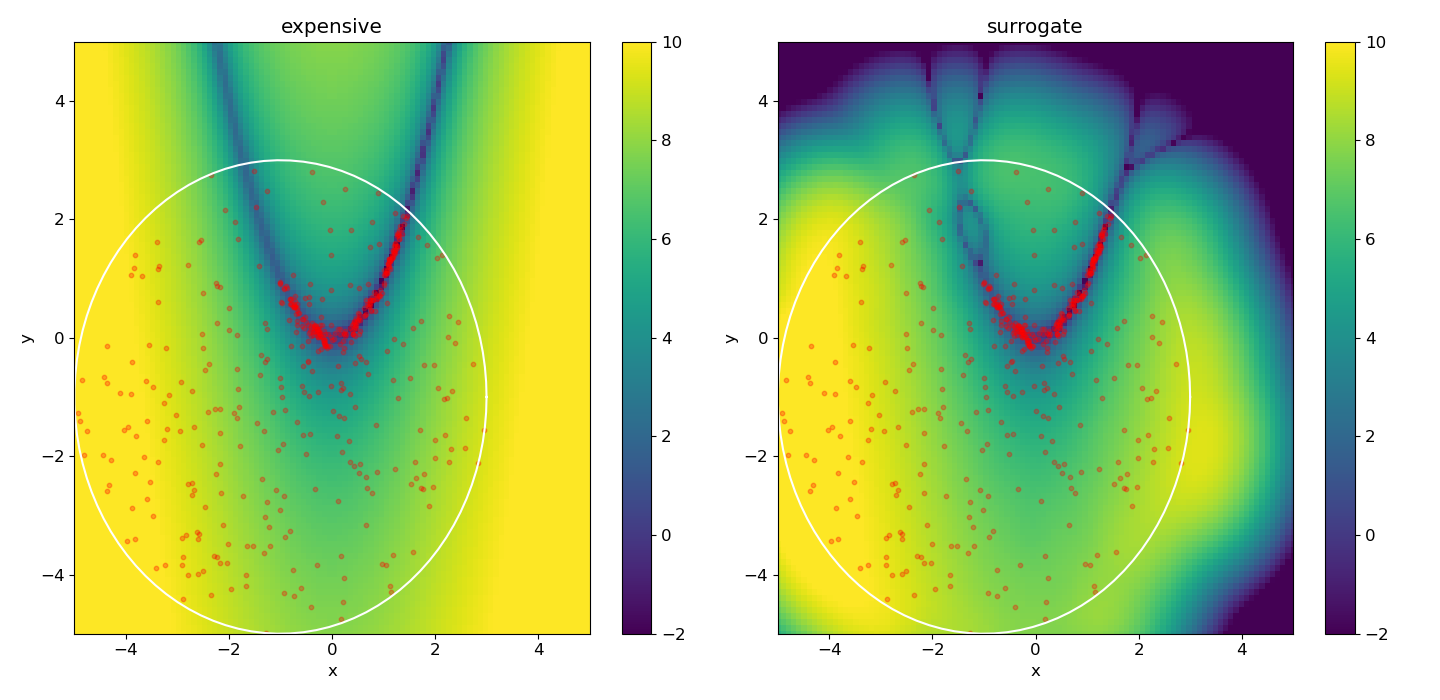
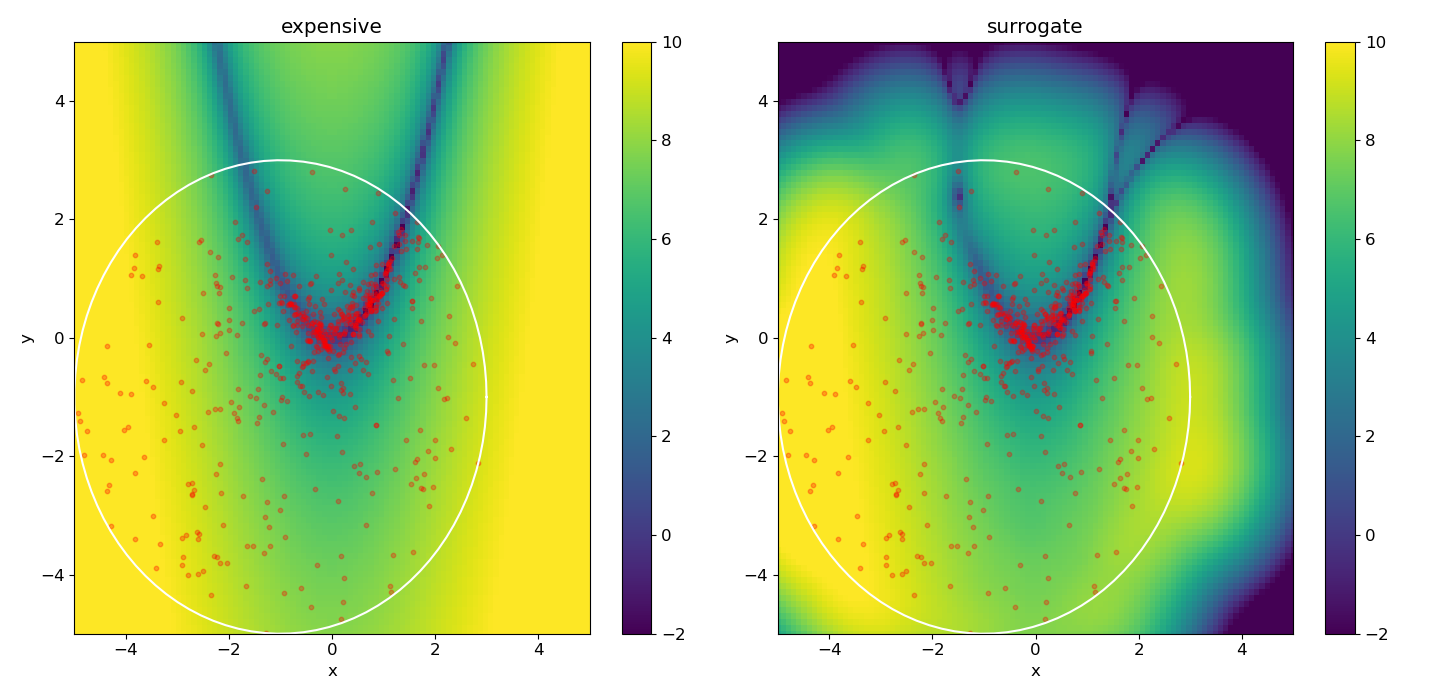
update example_mcmc_surrogate.py: remove the unnecessary correlation plot, check for unique points in the train/test sets

diff --git a/examples/example_mcmc_surrogate.py b/examples/example_mcmc_surrogate.py
@@ -76,7 +76,7 @@ slurm_pool = status['slurm_pool']
 print("Mean acceptance fraction: {0:.3f}".format(np.mean(sampler.acceptance_fraction)))
 
 tau = sampler.get_autocorr_time(quiet=True)
-print("Autocorrelation time (tau) per paramter:", [np.round(t, 2) for t in tau])
+print("Autocorrelation time (tau) per parameter:", [np.round(t, 2) for t in tau])
 
 thin = 1
 # burnin = 0
@@ -90,28 +90,36 @@ samples = sampler.get_chain(discard=burnin, thin=thin)
 samples_flat = sampler.get_chain(discard=burnin, thin=thin, flat=True)
 
 ## fitting a surrogate model and rerunning mcmc
-num_iters_for_training = 500
 kernel = ConstantKernel(1.0, (1e-3, 1e3)) * RBF(1.0, (1e-2, 1e2))
 surrogate = GaussianProcessRegressor(kernel=kernel, n_restarts_optimizer=10, alpha=1e-6)
 
 # assemble training data
 # combine mcmc points and some "random" points for regularization in far away regions
-num_iters_for_training_mcmc = int(0.5 * num_iters_for_training)
 X_train, y_train = [], []
+num_train_points_from_mcmc = 400
+unique_points_set = set()  # use to avoid duplicate points
 for point, value in zip(slurm_pool.points_history, slurm_pool.values_history):
-    if tuple(point) in sampler.mcmc_points_set:
+    point_accepted = tuple(point) not in unique_points_set
+    if use_constraints:
+        if constraint_fun(point) > 0: point_accepted = False
+    if point_accepted:
+        unique_points_set.add(tuple(point))
         X_train += [point]
         y_train += [value]
-    if len(y_train) == num_iters_for_training_mcmc:
+    if len(y_train) >= num_train_points_from_mcmc:
         break
 
+num_train_points_regularization = 200
 while True:
     point = np.array([param_bounds[i][0] + (param_bounds[i][1] - param_bounds[i][0]) * np.random.rand()
                       for i in range(num_params)])
-    if constraint_fun(point) < 0:
+    point_accepted = True
+    if use_constraints:
+        if constraint_fun(point) > 0: point_accepted = False
+    if point_accepted:
         X_train += [point]
         y_train += [np.array([log_prob_rosen_with_constraint(point)])]
-        if len(y_train) == num_iters_for_training:
+        if len(y_train) >= num_train_points_from_mcmc + num_train_points_regularization:
             break
 
 X_train, y_train = np.array(X_train), np.array(y_train)
@@ -129,11 +137,16 @@ log_prob_fun_surrogate = lambda x: surrogate.predict(x.reshape(1, -1))[0]  # for
 num_points_test = 100
 X_test, y_test = [], []
 for point, value in zip(slurm_pool.points_history, slurm_pool.values_history):
-    if tuple(point) in sampler.mcmc_points_set and point not in X_train:
+    point_accepted = tuple(point) not in unique_points_set
+    if use_constraints:
+        if constraint_fun(point) > 0: point_accepted = False
+    if point_accepted:
+        unique_points_set.add(tuple(point))
         X_test += [point]
         y_test += [value]
     if len(y_test) == num_points_test:
         break
+
 X_test, y_test = np.array(X_test), np.array(y_test)
 y_test_surrogate = np.array([log_prob_fun_surrogate(point) for point in X_test])
 dy_test = y_test_surrogate - y_test[:, 0]
@@ -156,7 +169,7 @@ else:
 
 print('running mcmc with surrogate.')
 status_2 = slurm_mcmc(log_prob_fun=log_prob_fun, init_points=init_points, num_iters=num_iters,
-                       cluster='local-map', verbosity=0)
+                      cluster='local-map', verbosity=0)
 sampler_2 = status_2['sampler']
 print("Mean acceptance fraction: {0:.3f}".format(np.mean(sampler_2.acceptance_fraction)))
 
@@ -250,21 +263,22 @@ importance_mean = np.mean(importance_weights_list)
 importance_std = np.std(importance_weights_list)
 print('importance_weights mean', importance_mean, ', std=', importance_std)
 
-plt.figure(figsize=(5, 8))
-plt.subplot(2, 1, 1)
-hist_range = (importance_mean - 3 * importance_std, importance_mean + 3 * importance_std)
-plt.hist(importance_weights_list, color='b', bins=20, range=hist_range)
+plt.figure()
+hist_range = (importance_mean - 2 * importance_std, importance_mean + 2 * importance_std)
+plt.hist(importance_weights_list, color='b', bins=31, range=hist_range)
 plt.title('mean=' + '{:.3f}'.format(importance_mean) + ', std=' + '{:.3f}'.format(importance_std))
-plt.gca().set_xticklabels([])
-plt.gca().set_yticklabels([])
-
-plt.subplot(2, 1, 2)
-plt.scatter(importance_weights_list, log_prob_expensive_list, color='b', alpha=0.3)
-plt.xlabel('importance weights')
-plt.ylabel('log probability (expensive)')
+plt.xlabel('importance weights = $p_{\mathrm{expensive}} / p_{\mathrm{surrogate}}$')
 plt.xlim([hist_range[0], hist_range[1]])
-
+plt.ylabel('frequency')
 plt.tight_layout()
 
 if save_plots:
     plt.savefig('example_mcmc_surrogate_importance_weights')
+
+plt.figure()
+plt.hist(log_prob_expensive_list, bins=31, label='expensive', color='k', alpha=0.5)
+plt.hist(log_prob_surrogate_list, bins=31, label='surrogate', color='b', alpha=0.5)
+plt.xlabel('log-probabillity')
+plt.ylabel('frequency')
+plt.legend()
+plt.tight_layout()

diff --git a/examples/docs/mcmc_surrogate.md b/examples/docs/mcmc_surrogate.md
@@ -16,7 +16,7 @@ However, even if the accuracy is satisfactory on the test set, it might not be a
 
 Therefore, using this package could still be useful as a tool to generate training data close to the post-MCMC subspace.
 Meaning, a hybrid approach would involve the following steps: 
-1. Start the parallel MCMC with the expensive queries.
+1. Start the parallel MCMC with the exact (expensive) queries.
 2. Generate enough relevant data.
 3. Train a fast surrogate model (and test its accuracy).
 4. Restart MCMC with the fast surrogate (parallelization no longer needed).
@@ -31,14 +31,14 @@ with zero probability assigned outside of the constraint circle.
 This will serve as the "expensive" query, to demonstrate the procedure above.
 
 We pick $N_c=10$ chains times $L_c=2000$ iterations per chain 
-(is not enough to be converged but that is not the point), and run the MCMC.
+(is not enough to be converged but that is not the point of this example), and run the MCMC.
 
 Then, we train a (gaussian process) surrogate model for the log-probability values of the training set, 
-made from 250 samples from the previous MCMC, 
-and additional 250 random points (in the constrained domain) as regularization.
+made from 400 unique samples from the previous MCMC, 
+and additional 200 random points (in the constrained domain) as regularization.
 
-For visualization, we show the expensive and surrogate log-probability functions, 
-with the training points shown in red:
+For visualization, we show the expensive and surrogate log-probability functions (log absolute of the values), 
+with the training points shown in red points:
 
 <img src="pics/example_mcmc_surrogate_2d_visualization.png" alt="example_mcmc_surrogate_2d_visualization" width="1000" height="auto">
 
@@ -49,15 +49,14 @@ A corner plot of the MCMC parameter distributions for the expensive vs surrogate
 
 <img src="pics/example_mcmc_surrogate_parameters_distribution.png" alt="example_mcmc_surrogate_parameters_distribution" width="700" height="auto">
 
-We can see that the distributions are quite similar in this toy example.
+We can see that the distributions are similar in this toy example, but not perfectly so.
 
 For validation, pick 1000 samples from the surrogate-based MCMC samples set, and evaluate the expensive queries on those points.
-Compare the ratio of probabilities between the expensive and surrogate cases (also known as importance weights) (top figure), 
-and the correlation between the ratio and the log-probability itself (bottom figure):
+Compare the ratio of probabilities between the expensive and surrogate cases, also known as importance weights:
 
 <img src="pics/example_mcmc_surrogate_importance_weights.png" alt="example_mcmc_surrogate_importance_weights" width="500" height="auto">
 
-We can see that the ratio is close to 1 to within 1%, validating the use of the surrogate model in this example. 
+We can see that the ratio is close to 1 to within ~1%, validating the use of the surrogate model in this example. 
 
 Later, these probability ratios (importance weights) could be used to improve the accuracy of predictions 
 using the surrogate-based MCMC samples set.
